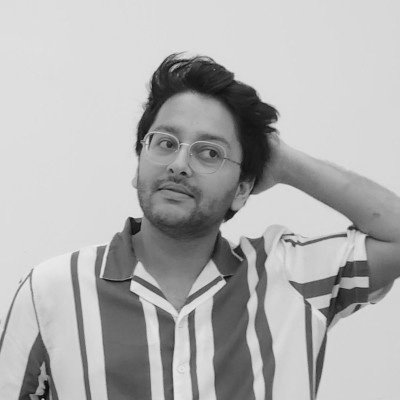
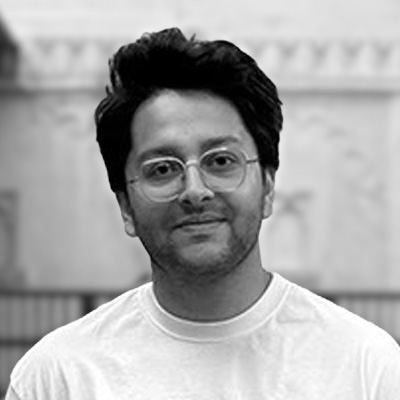
update photos

diff --git a/_people/Students/ShristiAshish.md b/_people/Students/ShristiAshish.md
@@ -1,15 +1,15 @@
 ---
 layout: single
-title: Srishti Ashish
+title: Shristi Ashish
 position: Research Intern, B.Des (Atlas SkillTech Uni)
 role: "student"
 date: 20260513
 header:
-    teaser: /assets/img/people/placeholder_person.jpg
-permalink: /people/srishti
+    teaser: /assets/img/people/imxd_people_shristiashish.jpg
+permalink: /people/shristi
 type: people
 modal : "no"
-modalname: "srishti"
+modalname: "shristi"
 fullpage: "no"
 links:
     - label: "Artstation"
@@ -23,5 +23,5 @@ links:
       url:
 ---
 
-## Srishti Ashish
+## Shristi Ashish
 Research Intern, B.Des (Atlas SkillTech Uni)
